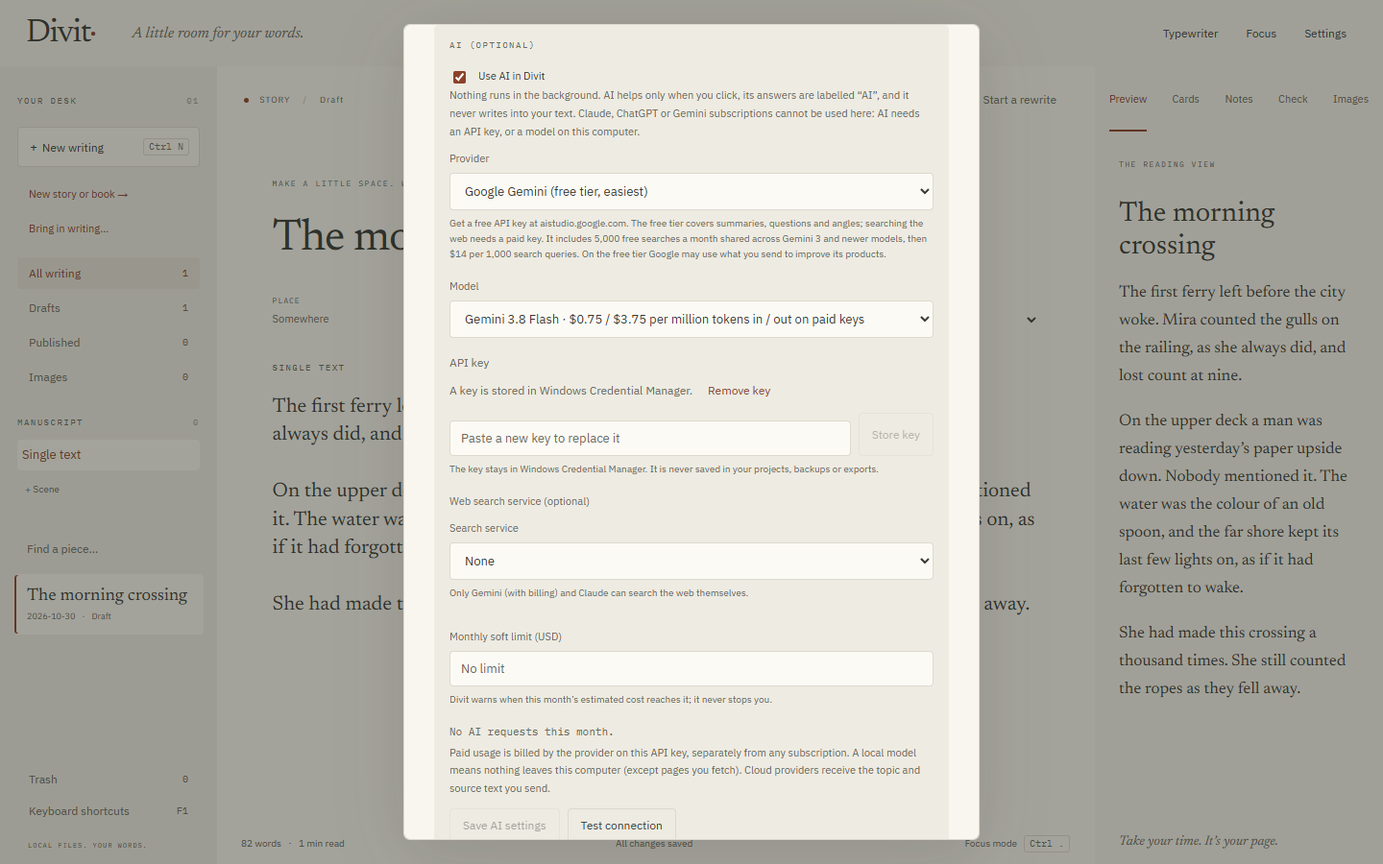
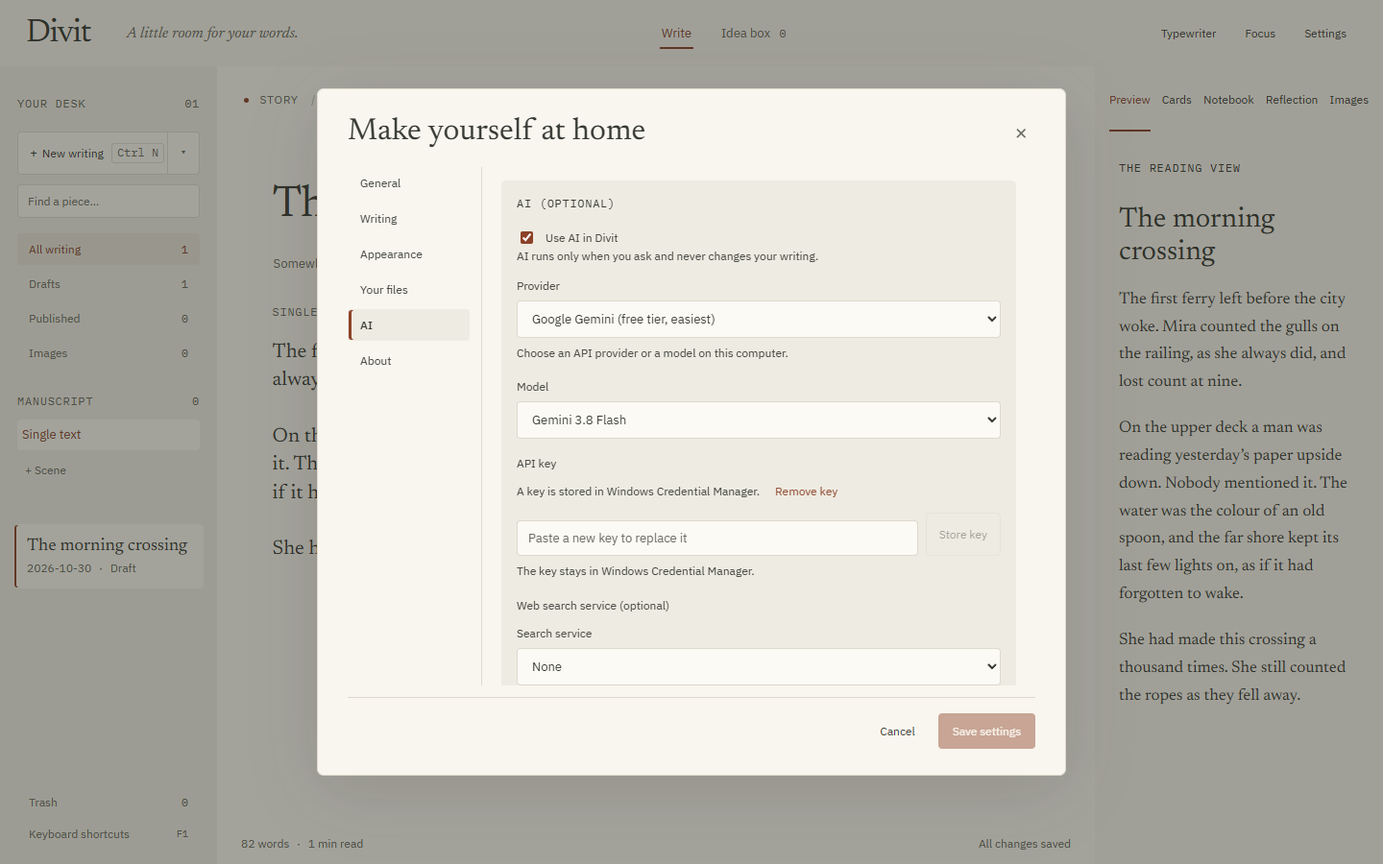
merge follow-up: tabbed Settings, Reflection/Notebook tabs, 12 px shell labels
Requests from ui/panels:
- B1: SettingsForm now hosts the Settings modal. General (language,
  updates), Writing (daily goal, Publish to my site), Appearance,
  Your files (backup, library folder), AI and a new About tab (version,
  privacy, feedback links). Save/Cancel stay in view and Save turns on
  as soon as something changes.
- B4: companion tabs show Reflection (Check) and Notebook (Notes), so
  they no longer echo Review mode and research notes.
- B5: remaining shell labels are 12 px with theme colour tokens; the New
  writing shortcut chip hides below 1150 px so the button stays on one
  line.
Tests that reached settings fields now open the right tab first. After
screenshots for shell and panels are taken from the merged app, and the
README screenshots no longer show the dot after Divit.

diff --git a/src/App.tsx b/src/App.tsx
@@ -11,6 +11,8 @@ import { LibraryLocation } from './settings/LibraryLocation'
 import { AiSettings } from './settings/AiSettings'
 import { checkForUpdate } from './settings/updates'
 import { issueUrl, systemInfo } from './settings/feedback'
+import { SettingsForm } from './settings/SettingsForm'
+import { APP_NAME } from './shared/app'
 import type { AvailableUpdate } from './settings/updates'
 import { useResearch } from './research/useResearch'
 import { ResearchDrawer, newInboxCount } from './research/ResearchDrawer'
@@ -94,6 +96,8 @@ export function App() {
   const [tagText, setTagText] = useState('')
   // Place, date, tags and language fold into one quiet line under the title until the writer opens them.
   const [metaOpen, setMetaOpen] = useState(false)
+  const [appVersion, setAppVersion] = useState('')
+  useEffect(() => { if (dialog === 'settings' && !appVersion) void systemInfo().then(info => setAppVersion(info.version)).catch(() => {}) }, [dialog, appVersion])
   const [exportResult, setExportResult] = useState<ExportResult | null>(null)
   const [editorEpoch, setEditorEpoch] = useState(0)
   const [selectedCardId, setSelectedCardId] = useState<string | null>(null)
@@ -411,7 +415,7 @@ export function App() {
           <div className="dialog-actions"><button className="accent-button" onClick={() => void perform(() => create())} disabled={busy}>{t('Start writing')} <span>＋</span></button><button className="outline-button" onClick={() => setDialog('import')}>{t('Bring in writing…')}</button><button onClick={() => { const next = { ...lib.settings, welcomed: true }; setLib(old => old && { ...old, settings: next }); void api.settings(next).catch(error => setError(message(error))) }}>{t('Got it')}</button></div></section>}
         {(lib.settings.welcomed || lib.projects.length > 0) && <div className="blank-desk"><div className="eyebrow">{t('YOUR WRITING DESK')}</div><h1>{t('There’s a story')}<br/>{t('in there somewhere.')}</h1><p>{t('A thought, a place, a sentence you don’t want to lose.')}<br/>{t('Give it a page.')}</p><button className="accent-button" onClick={() => void perform(() => create())} disabled={busy}>{t('Start writing')} <span>＋</span></button><button className="text-link" onClick={() => setRoom('ideas')}>{t('Or catch an idea first →')}</button></div>}</>}</main>
         {mode === 'review' && draft && <ReviewPanel issues={issues} checking={checking} focus={focusIssue} accept={acceptIssue} add={issue => void addToDictionary(issue.language, issue.original)} ignore={ignoreOnce} ignoreAlways={ignoreAlways}/>}
-        <aside ref={rightPanel} id="writing-companion" className={`side-panel ${compactRight ? 'right-drawer' : ''} ${rightOpen ? 'drawer-open' : ''}`} aria-label={t('Writing companion')} aria-hidden={compactRight && !rightOpen} inert={compactRight && !rightOpen || compactLeft && leftOpen} onKeyDown={e => trapDrawer(e, compactRight && rightOpen)}><button className="drawer-close" onClick={() => closeDrawer('right')}>{t('Close companion')}</button><div className="panel-tabs" role="tablist" aria-label={t('Companion tabs')}>{(draft && draft.type !== 'blog' ? ['Preview', 'Cards', 'Notes', 'Check', 'Images'] as const : ['Preview', 'Check', 'Images'] as const).map(name => <button role="tab" aria-selected={tab === name} className={tab === name ? 'active' : ''} key={name} onClick={() => setTab(name)} id={`tab-${name}`} aria-controls="companion-content">{t(name)}</button>)}</div><div className="panel-content" role="tabpanel" id="companion-content" aria-labelledby={`tab-${tab}`}>{tab === 'Preview' ? <><div className="section-label">{t('THE READING VIEW')}</div>{draft?.title && <h2 className="preview-title">{draft.title}</h2>}{draft?.standfirst && <p className="standfirst">{draft.standfirst}</p>}<Preview text={activeBody} images={lib.images}/></> : tab === 'Notes' && draft ? <Notebook key={draft.id} project={draft} change={edit} disabled={busy}/> : tab === 'Cards' && draft ? <Cards key={draft.id} selectedId={selectedCardId} cards={draft.cards ?? []} change={cards => edit({ cards })} disabled={busy}/> : tab === 'Images' ? <><div className="section-label">{t('A PLACE FOR IMAGES')}</div><p className="quiet">{t('Keep the originals. Prepare a lighter, private copy when sending to your site.')}</p><button className="outline-button" onClick={() => void perform(importImages)} disabled={busy}>{t('＋ Add images')}</button><div className="image-grid compact">{lib.images.map(image => <ImageTile key={image.id} image={image} insert={draft ? () => insert(image) : undefined}/>)}</div></> : <><div className="section-label">{t('A SECOND PAIR OF EYES')}</div><h3>{t('Your voice stays yours.')}</h3><p className="quiet">{t('Review mode (Ctrl 2) underlines spelling, checked on this computer. Sources and AI search live in Research (Ctrl Alt R). Nothing here changes your text.')}</p><div className="note-card">{t('For now, a small pause:')}<br/><br/>{t('Is the opening yours?')}<br/>{t('Is there a detail only you noticed?')}<br/>{t('Does the ending need to explain?')}</div><small className="quiet">{t('No AI request is made.')}</small></>}</div></aside>
+        <aside ref={rightPanel} id="writing-companion" className={`side-panel ${compactRight ? 'right-drawer' : ''} ${rightOpen ? 'drawer-open' : ''}`} aria-label={t('Writing companion')} aria-hidden={compactRight && !rightOpen} inert={compactRight && !rightOpen || compactLeft && leftOpen} onKeyDown={e => trapDrawer(e, compactRight && rightOpen)}><button className="drawer-close" onClick={() => closeDrawer('right')}>{t('Close companion')}</button><div className="panel-tabs" role="tablist" aria-label={t('Companion tabs')}>{(draft && draft.type !== 'blog' ? ['Preview', 'Cards', 'Notes', 'Check', 'Images'] as const : ['Preview', 'Check', 'Images'] as const).map(name => <button role="tab" aria-selected={tab === name} className={tab === name ? 'active' : ''} key={name} onClick={() => setTab(name)} id={`tab-${name}`} aria-controls="companion-content">{name === 'Check' ? t('Reflection') : name === 'Notes' ? t('Notebook') : t(name)}</button>)}</div><div className="panel-content" role="tabpanel" id="companion-content" aria-labelledby={`tab-${tab}`}>{tab === 'Preview' ? <><div className="section-label">{t('THE READING VIEW')}</div>{draft?.title && <h2 className="preview-title">{draft.title}</h2>}{draft?.standfirst && <p className="standfirst">{draft.standfirst}</p>}<Preview text={activeBody} images={lib.images}/></> : tab === 'Notes' && draft ? <Notebook key={draft.id} project={draft} change={edit} disabled={busy}/> : tab === 'Cards' && draft ? <Cards key={draft.id} selectedId={selectedCardId} cards={draft.cards ?? []} change={cards => edit({ cards })} disabled={busy}/> : tab === 'Images' ? <><div className="section-label">{t('A PLACE FOR IMAGES')}</div><p className="quiet">{t('Keep the originals. Prepare a lighter, private copy when sending to your site.')}</p><button className="outline-button" onClick={() => void perform(importImages)} disabled={busy}>{t('＋ Add images')}</button><div className="image-grid compact">{lib.images.map(image => <ImageTile key={image.id} image={image} insert={draft ? () => insert(image) : undefined}/>)}</div></> : <><div className="section-label">{t('A SECOND PAIR OF EYES')}</div><h3>{t('Your voice stays yours.')}</h3><p className="quiet">{t('Review mode (Ctrl 2) underlines spelling, checked on this computer. Sources and AI search live in Research (Ctrl Alt R). Nothing here changes your text.')}</p><div className="note-card">{t('For now, a small pause:')}<br/><br/>{t('Is the opening yours?')}<br/>{t('Is there a detail only you noticed?')}<br/>{t('Does the ending need to explain?')}</div><small className="quiet">{t('No AI request is made.')}</small></>}</div></aside>
       </>}
 
       {room === 'write' && draft && !writing && researchOpen && <ResearchDrawer projectId={draft.id} projectTitle={draft.title} language={draft.language === 'tr' ? 'tr' : 'en'} suggestTopic={() => { const editor = view.current, range = editor?.state.selection.main, picked = range && !range.empty ? editor!.state.sliceDoc(range.from, range.to).trim() : ''; return picked && picked.length <= 200 ? picked : activeSection?.title || draft.title }} research={research.research} reload={research.reload} saveAnnotations={research.saveAnnotations} close={closeResearch} openSettings={openSettings} insert={insertQuote} sectionId={activeSection?.id ?? null} placeName={id => draft.sections?.find(n => n.id === id)?.title ?? (draft.type === 'blog' ? t('the text') : draft.type === 'story' ? t('Single text') : t('Opening'))}/>}
@@ -432,7 +436,14 @@ export function App() {
     {dialog === 'export' && draft && <Modal error={error} title={t('A finished copy')} close={() => { if (!busy) setDialog(null) }}><ExportPanel project={draft} disabled={busy} result={exportResult} quoted={research.research?.sources.filter(s => s.status === 'used').length ?? 0} run={(format, includeSources, engine) => void perform(() => exportCopy(format, includeSources, engine))}/></Modal>}
     {dialog === 'backup-close' && <Modal error={error} title={t('Your writing is saved')} close={() => setDialog(null)}><p className="quiet">{t('The backup could not be completed. Reconnect the backup drive and keep Divit open to try again, or close with your writing saved in Documents.')}</p><div className="dialog-actions"><button className="accent-button" onClick={() => setDialog(null)}>{t('Keep open')}</button><button onClick={() => { void closeWithoutBackup.current?.().catch(error => setError(message(error))) }}>{t('Close without backup')}</button></div></Modal>}
     {dialog === 'help' && <Modal error={error} title={t('A few familiar keys')} close={() => setDialog(null)}><dl className="shortcut-list">{[['Write / Review / Normal', 'Ctrl 1 / 2 / 3'], ['Leave Write mode', 'Esc'], ['New writing', 'Ctrl N'], ['New story or book', 'Ctrl Shift N'], ['Bring in writing', 'Ctrl O'], ['Add chapter / scene', 'Ctrl Alt 1 / 2'], ['Character/place cards', 'Ctrl Alt K'], ['Project notebook', 'Ctrl Alt N'], ['Snapshots', 'Ctrl Alt V'], ['Research', 'Ctrl Alt R'], ['Export', 'Ctrl Shift E'], ['Save now', 'Ctrl S'], ['Catch an idea', 'Ctrl Shift I'], ['Publish to my site (when set up)', 'Ctrl Shift Enter'], ['Typewriter mode', 'Ctrl Alt T'], ['Focus mode', 'Ctrl .'], ['Settings', 'Ctrl ,'],  ['Leave focus / close dialog', 'Esc'], ['Help and shortcuts', 'F1'], ['Undo / redo', 'Ctrl Z / Ctrl Shift Z']].map(([label, key]) => <div key={label}><dt>{t(label)}</dt><dd><kbd>{key}</kbd></dd></div>)}</dl><label className="field help-theme">{t('Theme')}{themePicker('help-theme')}</label><p className="quiet">{t('Use Tab and Shift Tab to reach every control. Text saves automatically while you write.')}</p><div className="help-feedback"><span className="section-label">{t('TELL US')}</span><p className="quiet">{t('Opens a GitHub issue in your browser with the app version and Windows version filled in. Your writing is never included.')}</p><div className="dialog-actions"><button className="outline-button" onClick={() => void systemInfo().then(info => api.openLink(issueUrl('feedback', info))).catch(error => setError(message(error)))}>{t('Send feedback ↗')}</button><button className="outline-button" onClick={() => void systemInfo().then(info => api.openLink(issueUrl('bug', info))).catch(error => setError(message(error)))}>{t('Report a bug ↗')}</button></div></div></Modal>}
-    {dialog === 'settings' && settings && <Modal error={error} title={t('Make yourself at home')} close={() => setDialog(null)}><form onSubmit={e => { e.preventDefault(); void perform(async () => { await api.settings(settings); await refresh(); setDialog(null) }) }}><label className="field">{t('Appearance')}{themePicker('settings-theme')}<small>{t('Applies at once. Match Windows follows the light or dark setting of Windows.')}</small></label><label className="field">{t('Interface language')}<select value={settings.uiLanguage ?? 'system'} onChange={e => setSettings({ ...settings, uiLanguage: e.target.value as Settings['uiLanguage'] })}><option value="system">{t('Same as Windows')}</option><option value="en" lang="en">English</option><option value="tr" lang="tr">Türkçe</option></select><small>{t('Menus and messages only. The language you write in is set per project.')}</small></label><label className="field">{t('Daily writing goal')}<input type="number" min="0" max="100000" placeholder={t('Off')} value={settings.writingGoal || ''} onChange={e => { const value = Math.round(Number(e.target.value)); setSettings({ ...settings, writingGoal: Number.isFinite(value) && value > 0 ? Math.min(100000, value) : undefined }) }}/><small>{t('Optional. Shows today’s words and how many days in a row you have written, at the bottom of the page. Never shown in Write mode.')}</small></label><BackupSettings settings={settings} change={setSettings} info={backupInfo} busy={busy} run={() => void perform(async () => { await api.settings(settings); await flush(); setBackupInfo(await api.backup('manual')); await refresh() })}/><AiSettings/>{desktop && <div className="settings-updates"><label className="acknowledge"><input type="checkbox" checked={settings.checkUpdates !== false} onChange={e => setSettings({ ...settings, checkUpdates: e.target.checked })}/> {t('Check for a new version when Divit starts')}</label><small>{t('Asks GitHub for the latest release; nothing about you or your writing is sent. Divit always asks before installing.')}</small><div><button type="button" className="outline-button" onClick={() => void checkUpdatesNow()}>{t('Check for updates')}</button> <span className="quiet" role="status">{updateNote}</span></div></div>}<LibraryLocation dataRoot={lib.dataRoot} beforeMove={flush} afterMove={async () => { const data = await refresh(); const sorted = [...data.projects].sort((a, b) => b.updatedAt.localeCompare(a.updatedAt)); select(sorted[0] ?? null) }}/><details className="settings-advanced" open={!!settings.siteRepo?.trim()}><summary>{t('Publish to my site (advanced)')}</summary><label className="field">{t('Site repository folder')}<input value={settings.siteRepo ?? ''} placeholder={t('Leave empty if you do not have one')} onChange={e => setSettings({ ...settings, siteRepo: e.target.value })}/><small>{t('For a blog kept in a local Git repository that has a check:content script. Divit writes the post and its images on a new branch and makes a local commit; you push it yourself. Needs Node.js 22. Leave empty to hide Publish to my site.')}</small></label></details><button className="accent-button" disabled={busy}>{t('Save settings')}</button></form></Modal>}
+    {dialog === 'settings' && settings && <Modal error={error} title={t('Make yourself at home')} close={() => setDialog(null)}><SettingsForm dirty={JSON.stringify(settings) !== JSON.stringify(lib.settings)} busy={busy} cancel={() => setDialog(null)} save={() => void perform(async () => { await api.settings(settings); await refresh(); setDialog(null) })} panels={{
+      General: <><label className="field">{t('Interface language')}<select value={settings.uiLanguage ?? 'system'} onChange={e => setSettings({ ...settings, uiLanguage: e.target.value as Settings['uiLanguage'] })}><option value="system">{t('Same as Windows')}</option><option value="en" lang="en">English</option><option value="tr" lang="tr">Türkçe</option></select><small>{t('Menus and messages only. The language you write in is set per project.')}</small></label>{desktop && <div className="settings-updates"><label className="acknowledge"><input type="checkbox" checked={settings.checkUpdates !== false} onChange={e => setSettings({ ...settings, checkUpdates: e.target.checked })}/> {t('Check for a new version when Divit starts')}</label><small>{t('Asks GitHub for the latest release; nothing about you or your writing is sent. Divit always asks before installing.')}</small><div><button type="button" className="outline-button" onClick={() => void checkUpdatesNow()}>{t('Check for updates')}</button> <span className="quiet" role="status">{updateNote}</span></div></div>}</>,
+      Writing: <><label className="field">{t('Daily writing goal')}<input type="number" min="0" max="100000" placeholder={t('Off')} value={settings.writingGoal || ''} onChange={e => { const value = Math.round(Number(e.target.value)); setSettings({ ...settings, writingGoal: Number.isFinite(value) && value > 0 ? Math.min(100000, value) : undefined }) }}/><small>{t('Optional. Shows today’s words and how many days in a row you have written, at the bottom of the page. Never shown in Write mode.')}</small></label><details className="settings-advanced" open={!!settings.siteRepo?.trim()}><summary>{t('Publish to my site (advanced)')}</summary><label className="field">{t('Site repository folder')}<input value={settings.siteRepo ?? ''} placeholder={t('Leave empty if you do not have one')} onChange={e => setSettings({ ...settings, siteRepo: e.target.value })}/><small>{t('For a blog kept in a local Git repository that has a check:content script. Divit writes the post and its images on a new branch and makes a local commit; you push it yourself. Needs Node.js 22. Leave empty to hide Publish to my site.')}</small></label></details></>,
+      Appearance: <><label className="field">{t('Appearance')}{themePicker('settings-theme')}<small>{t('Applies at once. Match Windows follows the light or dark setting of Windows.')}</small></label></>,
+      'Your files': <><BackupSettings settings={settings} change={setSettings} info={backupInfo} busy={busy} run={() => void perform(async () => { await api.settings(settings); await flush(); setBackupInfo(await api.backup('manual')); await refresh() })}/><LibraryLocation dataRoot={lib.dataRoot} beforeMove={flush} afterMove={async () => { const data = await refresh(); const sorted = [...data.projects].sort((a, b) => b.updatedAt.localeCompare(a.updatedAt)); select(sorted[0] ?? null) }}/></>,
+      AI: <AiSettings/>,
+      About: <div className="settings-about"><span className="section-label">{APP_NAME}</span><p>{t('Version {version}', { version: appVersion || '…' })}</p><p className="quiet">{t('Your writing stays on this computer. Nothing is sent anywhere unless you turn on AI or save a web page as a source. Divit only asks GitHub whether a new version exists, and you can turn that off in Settings.')}</p><div className="dialog-actions"><button type="button" className="outline-button" onClick={() => void systemInfo().then(info => api.openLink(issueUrl('feedback', info))).catch(error => setError(message(error)))}>{t('Send feedback ↗')}</button><button type="button" className="outline-button" onClick={() => void systemInfo().then(info => api.openLink(issueUrl('bug', info))).catch(error => setError(message(error)))}>{t('Report a bug ↗')}</button></div></div>,
+    }}/></Modal>}
     {dialog === 'publish' && draft && <Modal error={error} title={t('Send these words out')} close={() => { if (!busy) setDialog(null) }}><p className="quiet">{t('Prepare a local site branch for')} <strong>{draft.title || t('Untitled')}</strong>.</p><label className="field">{t('Address')}<input value={draft.slug} disabled={busy} onChange={e => edit({ slug: e.target.value })}/><small>/blog/{draft.slug || 'your-address'}</small></label><label className="field">{t('Excerpt')}<input placeholder={t('One line for the journal list')} value={draft.excerpt} disabled={busy} onChange={e => edit({ excerpt: e.target.value })}/></label><label className="field">{t('Standfirst')}<textarea placeholder={t('The opening lines, set a little larger')} value={draft.standfirst} disabled={busy} onChange={e => edit({ standfirst: e.target.value })}/></label><ul className="checklist"><li>{draft.title.trim() ? '✓' : '○'} A title of your own</li><li>{draft.body.trim() ? '✓' : '○'} Text ready to read</li><li>{draft.date ? '✓' : '○'} A date for the journal</li><li>✓ Originals kept; site images resized and privacy checked</li><li>{draft.ideaId ? '✓ Linked idea moves to Published after commit' : '— No linked idea card'}</li></ul>{!desktop && <p className="inline-notice">{t('Site transfer needs the desktop app.')}</p>}{plan && <div className="publish-plan"><div className="section-label">{t('FILES TO WRITE')}</div>{plan.files.map(file => <code key={file}>{file}</code>)}<p>{t('Branch')} <code>{plan.branch}</code></p><p className="quiet">{t('Run the content check, then commit these files locally.')}</p><label className="acknowledge"><input type="checkbox" checked={acknowledged} onChange={e => setAcknowledged(e.target.checked)}/> {t('I’ve reviewed the files and branch.')}</label></div>}<div className="dialog-actions"><button className="outline-button" disabled={busy || !desktop || !canPublish} onClick={() => void perform(async () => { await flush(); setPlan(await api.plan(session.current!.project!)); setAcknowledged(false) })}>{busy ? t('Working…') : t('Check repository')}</button><button className="accent-button" disabled={busy || !plan || !acknowledged} onClick={() => void perform(async () => { await flush(); const result = await api.publish(session.current!.project!); const data = await refresh(); select(data.projects.find(p => p.id === draft.id) ?? null); setDialog(null); setStatus(`Committed on ${result.branch} · ${result.commit.slice(0, 7)}`) })}>{t('Create local commit ↗')}</button></div><small className="quiet">{t('Push is a separate step that requires your approval.')}</small></Modal>}
   </div>
 }

diff --git a/tests/ui/projects.spec.ts b/tests/ui/projects.spec.ts
@@ -1,5 +1,5 @@
 import { test, expect } from '@playwright/test'
-import { more, startMenu } from './shell-helpers'
+import { more, settingsTab, startMenu } from './shell-helpers'
 import { readFile } from 'node:fs/promises'
 
 test.beforeEach(async ({ page }) => {
@@ -130,19 +130,19 @@ test('timeline and daily writing goals persist without counting metadata as writ
   await startMenu(page, 'New story or book')
   await page.getByLabel('Project title').fill('The Last Ferry'); await page.getByRole('button', { name: 'Create project', exact: true }).click()
   await page.getByRole('textbox', { name: 'Markdown text' }).fill('One quiet morning.')
-  await page.getByRole('tab', { name: 'Notes', exact: true }).click(); await page.getByRole('button', { name: 'Writing log', exact: true }).click()
+  await page.getByRole('tab', { name: 'Notebook', exact: true }).click(); await page.getByRole('button', { name: 'Writing log', exact: true }).click()
   await expect(page.locator('.daily-progress')).toContainText('3 words today in this project')
   await expect(page.locator('.daily-goal-line')).toHaveCount(0) // the goal is off until the writer sets one
   await page.getByRole('button', { name: 'Timeline', exact: true }).click(); await page.getByRole('button', { name: '+ Event', exact: true }).click()
   await page.getByLabel('Note title').fill('Departure'); await page.getByLabel('When', { exact: true }).fill('Day 1, 06:10')
   await page.getByLabel('Note text').fill('Derya takes the first ferry.'); await page.getByRole('button', { name: 'Save note', exact: true }).click()
   await page.keyboard.press('Control+s')
-  await page.getByRole('button', { name: 'Open settings' }).click(); await page.getByRole('dialog').getByLabel('Daily writing goal').fill('10'); await page.getByRole('button', { name: 'Save settings' }).click()
+  await page.getByRole('button', { name: 'Open settings' }).click(); await settingsTab(page, 'Writing'); await page.getByRole('dialog').getByLabel('Daily writing goal').fill('10'); await page.getByRole('button', { name: 'Save settings' }).click()
   await expect(page.locator('.daily-goal-line')).toHaveAttribute('value', '3'); await expect(page.locator('.daily-goal-line')).toHaveAttribute('max', '10')
   await expect(page.locator('.goal-status')).toHaveText('3 / 10 today')
   await page.getByRole('combobox', { name: 'Writing mode' }).selectOption('write'); await expect(page.locator('.goal-status')).toBeHidden()
   await page.keyboard.press('Escape')
-  await page.reload(); await page.getByRole('tab', { name: 'Notes', exact: true }).click()
+  await page.reload(); await page.getByRole('tab', { name: 'Notebook', exact: true }).click()
   await page.getByRole('button', { name: 'Timeline', exact: true }).click(); await expect(page.locator('.project-notes')).toContainText('Day 1, 06:10')
 })
 
@@ -153,7 +153,7 @@ test('fiction shortcuts create projects, chapters and scenes and open companion 
   await page.keyboard.press('Control+Alt+1'); await expect(page.getByLabel('Section title')).toHaveValue('Chapter 1')
   await page.keyboard.press('Control+Alt+2'); await expect(page.getByLabel('Section title')).toHaveValue('Scene 1')
   await page.keyboard.press('Control+Alt+k'); await expect(page.getByRole('tab', { name: 'Cards', exact: true })).toHaveAttribute('aria-selected', 'true')
-  await page.keyboard.press('Control+Alt+n'); await expect(page.getByRole('tab', { name: 'Notes', exact: true })).toHaveAttribute('aria-selected', 'true')
+  await page.keyboard.press('Control+Alt+n'); await expect(page.getByRole('tab', { name: 'Notebook', exact: true })).toHaveAttribute('aria-selected', 'true')
   await page.keyboard.press('Control+Alt+v'); await expect(page.getByRole('dialog')).toContainText('Keep a version before rewriting')
   await page.keyboard.press('Escape'); await page.keyboard.press('Control+Shift+e')
   await expect(page.getByRole('dialog')).toContainText('A finished copy')

diff --git a/tests/ui/ai-settings.spec.ts b/tests/ui/ai-settings.spec.ts
@@ -1,10 +1,11 @@
 import { test, expect } from '@playwright/test'
 import { desktopBridge, nativeCalls } from './desktop-bridge'
+import { settingsTab } from './shell-helpers'
 
 test('model names stay short and Details follows the published January price change', async ({ page }) => {
   await page.clock.setFixedTime(new Date('2027-01-15T12:00:00Z'))
   await desktopBridge(page, { config: { enabled: true } })
-  await page.goto('/'); await page.getByRole('button', { name: 'Open settings' }).click()
+  await page.goto('/'); await page.getByRole('button', { name: 'Open settings' }).click(); await settingsTab(page, 'AI')
   const model = page.getByRole('dialog').getByLabel('Model', { exact: true })
   await expect(model.locator('option').first()).toHaveText('Gemini 3.8 Flash')
   const details = page.getByRole('dialog').locator('.ai-details')
@@ -14,7 +15,7 @@ test('model names stay short and Details follows the published January price cha
 })
 
 test('in the browser preview, AI settings only explain that AI runs from the desktop app', async ({ page }) => {
-  await page.goto('/'); await page.getByRole('button', { name: 'Open settings' }).click()
+  await page.goto('/'); await page.getByRole('button', { name: 'Open settings' }).click(); await settingsTab(page, 'AI')
   const section = page.getByRole('dialog').locator('.ai-settings')
   const apiKey = section.locator('.ai-key').getByLabel('API key', { exact: true })
   await expect(section).toContainText('AI features run from the desktop app')
@@ -24,7 +25,7 @@ test('in the browser preview, AI settings only explain that AI runs from the des
 test('Gemini comes first, then local models; keys go only to Credential Manager; Claude fallbacks are an opt-in', async ({ page }) => {
   const month = new Date(Date.now() - new Date().getTimezoneOffset() * 60000).toISOString().slice(0, 7)
   await desktopBridge(page, { config: { usage: { month, calls: 3, inputTokens: 12000, outputTokens: 800, webSearches: 2, costUsd: 0.064, unpricedCalls: 0 } }, testMessage: 'Connected. Gemini 3.8 Flash is available.' })
-  await page.goto('/'); await page.getByRole('button', { name: 'Open settings' }).click()
+  await page.goto('/'); await page.getByRole('button', { name: 'Open settings' }).click(); await settingsTab(page, 'AI')
   const section = page.getByRole('dialog').locator('.ai-settings')
   const apiKey = section.locator('.ai-key').getByLabel('API key', { exact: true })
   await expect(section.getByLabel('Use AI in Divit')).not.toBeChecked()

diff --git a/src/polish/shell.css b/src/polish/shell.css
@@ -35,6 +35,8 @@
 .library>.search-label{display:block;margin:0 0 16px}
 .library>.search-label input{width:100%;background:var(--paper);border:1px solid var(--line);min-height:32px}
 
+.settings-about p{font-size:13px;line-height:1.6;margin:8px 0}
+
 /* The metadata line under the title: one quiet button that opens the fields. */
 .metadata-summary{display:block;min-height:32px;margin:-14px 0 8px -8px;padding:6px 8px;font-size:13px;color:var(--muted);text-align:left;max-width:100%;overflow:hidden;text-overflow:ellipsis;white-space:nowrap}
 .metadata-summary[aria-expanded=true]{color:var(--text)}
@@ -45,3 +47,16 @@
 .topbar nav button.active{color:var(--accent)}
 .editor-footer{justify-content:flex-start;gap:18px}
 .editor-footer [role=status]{margin-left:auto}
+
+/* Small shell labels: at least 12 px, in the theme's muted or text colour (AA in every theme, see
+   tests/themes.test.mjs). Mono caps keep a lighter letter-spacing at this size. */
+.section-label,.eyebrow,.panel-content>.section-label,.room-number,.column-heading small,.idea-card>small,.document-toolbar>div:first-child{font-size:12px;letter-spacing:.06em}
+.section-label span{opacity:1}
+.nav-count,.preview-notice,.preview-notice span,.new-button kbd,.library-filters button,.library-filters span,.library-bottom button,.library-bottom span,.document small,.new-project-link,
+.document-toolbar,.document-toolbar button,.editor-footer,.editor-footer button,.editor-footer kbd,.editor-footer .today-count,.metadata label,.metadata input,
+.panel-tabs button,.tag-filters button,.tag-filter-input input,.column-heading>span:last-child,.idea-tags span,.idea-card select,.idea-tag-edit,.idea-tag-edit input,.card-actions button,
+.capture button,.image-tile>span,.image-actions button,.outline-node,.outline-node small,.outline-tools button,.outline-trash,.outline-trash button,.outline-add button,.outline-word-count{font-size:12px}
+.document small,.metadata label,.column-heading small,.idea-card>small{color:var(--muted)}
+.library-filters span,.library-bottom span{font-family:'IBM Plex Mono',monospace}
+.new-split .new-button{white-space:nowrap;gap:8px}
+@media(max-width:1150px){.new-split .new-button kbd{display:none}}

diff --git a/tests/ui/themes.spec.ts b/tests/ui/themes.spec.ts
@@ -1,12 +1,13 @@
 import { test, expect } from '@playwright/test'
+import { settingsTab } from './shell-helpers'
 
 const paper = (page: import('@playwright/test').Page) => page.evaluate(() => getComputedStyle(document.documentElement).getPropertyValue('--paper').trim())
 
 test('themes apply at once from Settings and the shortcut sheet, and are remembered', async ({ page }) => {
   await page.goto('/'); await page.evaluate(() => localStorage.clear()); await page.reload()
   await expect(page.locator('html')).toHaveAttribute('data-theme', 'light')
-  await page.getByRole('button', { name: 'Open settings' }).click()
-  const appearance = page.getByRole('dialog').getByLabel(/^Appearance/)
+  await page.getByRole('button', { name: 'Open settings' }).click(); await settingsTab(page, 'Appearance')
+  const appearance = page.getByRole('dialog').getByRole('combobox', { name: /^Appearance/ })
   await expect(appearance.locator('option')).toHaveText(['Match Windows', 'Warm paper', 'Sage paper', 'Dusty blue ink', 'After hours', 'Terracotta evening', 'Plum night'])
   await appearance.selectOption('plum')
   await expect(page.locator('html')).toHaveAttribute('data-theme', 'plum'); await expect(page.locator('html')).toHaveAttribute('data-tone', 'dark')
@@ -23,8 +24,8 @@ test('themes apply at once from Settings and the shortcut sheet, and are remembe
 test('Match Windows follows the system light or dark setting while the app is open', async ({ page }) => {
   await page.emulateMedia({ colorScheme: 'light' })
   await page.goto('/'); await page.evaluate(() => localStorage.clear()); await page.reload()
-  await page.getByRole('button', { name: 'Open settings' }).click()
-  await page.getByRole('dialog').getByLabel(/^Appearance/).selectOption('system')
+  await page.getByRole('button', { name: 'Open settings' }).click(); await settingsTab(page, 'Appearance')
+  await page.getByRole('dialog').getByRole('combobox', { name: /^Appearance/ }).selectOption('system')
   await expect(page.locator('html')).toHaveAttribute('data-theme', 'light')
   await page.emulateMedia({ colorScheme: 'dark' })
   await expect(page.locator('html')).toHaveAttribute('data-theme', 'dark')

diff --git a/tests/ui/shell.spec.ts b/tests/ui/shell.spec.ts
@@ -87,3 +87,24 @@ test('the status bar shows words, reading time and save state, without the Focus
   await expect(focus).toHaveAttribute('aria-pressed', 'false'); await focus.click()
   await expect(page.locator('.top-actions').getByRole('button', { name: 'Leave focus' })).toHaveAttribute('aria-pressed', 'true')
 })
+
+test('Settings opens on side tabs with Save and Cancel always in view; Save turns on with a change', async ({ page }) => {
+  await page.setViewportSize({ width: 960, height: 700 })
+  await page.goto('/'); await page.evaluate(() => localStorage.clear()); await page.reload()
+  await page.getByRole('button', { name: 'Open settings' }).click()
+  const dialog = page.getByRole('dialog')
+  await expect(dialog.getByRole('tab')).toHaveText(['General', 'Writing', 'Appearance', 'Your files', 'AI', 'About'])
+  const save = dialog.getByRole('button', { name: 'Save settings' })
+  await expect(save).toBeInViewport(); await expect(save).toBeDisabled(); await expect(dialog.getByRole('button', { name: 'Cancel' })).toBeInViewport()
+  await dialog.getByRole('tab', { name: 'Writing' }).click(); await dialog.getByLabel('Daily writing goal').fill('300')
+  await expect(save).toBeEnabled(); await expect(save).toBeInViewport()
+  await dialog.getByRole('tab', { name: 'About' }).click(); await expect(dialog.getByRole('tabpanel', { name: 'About' })).toContainText('Version')
+  await save.click(); await expect(dialog).toHaveCount(0)
+  expect(await page.evaluate(() => JSON.parse(localStorage.getItem('yazi-browser-preview-v1')!).settings.writingGoal)).toBe(300)
+})
+
+test('companion tabs say Reflection and Notebook, so they do not echo Review and research notes', async ({ page }) => {
+  await book(page)
+  await expect(page.locator('#writing-companion [role=tab]')).toHaveText(['Preview', 'Cards', 'Notebook', 'Reflection', 'Images'])
+  await page.keyboard.press('Control+Alt+n'); await expect(page.getByRole('tab', { name: 'Notebook', exact: true })).toHaveAttribute('aria-selected', 'true')
+})

diff --git a/tests/ui/library-location.spec.ts b/tests/ui/library-location.spec.ts
@@ -1,4 +1,5 @@
 import { test, expect } from '@playwright/test'
+import { settingsTab } from './shell-helpers'
 import { desktopBridge, nativeCalls } from './desktop-bridge'
 
 test('moving the library warns about two computers, copies only after confirming and keeps the old folder', async ({ page }) => {
@@ -7,7 +8,7 @@ test('moving the library warns about two computers, copies only after confirming
     library_location: { root: 'D:\OneDrive\Divit', existing: false, projects: 0, changedAt: null },
     library_move: { dataRoot: 'D:\OneDrive\Divit', previous: 'C:\Users\writer\Documents\Divit', copied: 12 },
   } })
-  await page.goto('/'); await page.getByRole('button', { name: 'Open settings' }).click()
+  await page.goto('/'); await page.getByRole('button', { name: 'Open settings' }).click(); await settingsTab(page, 'Your files')
   const dialog = page.getByRole('dialog')
   await expect(dialog).toContainText('C:/Users/writer/Documents/Divit')
   await dialog.getByRole('button', { name: 'Move library…' }).click()
@@ -22,7 +23,7 @@ test('moving the library warns about two computers, copies only after confirming
 
 test('a folder that already holds a library is offered for use, not overwritten', async ({ page }) => {
   await desktopBridge(page, { config: {}, extra: { 'plugin:dialog|open': 'D:\Dropbox', library_location: { root: 'D:\Dropbox\Divit', existing: true, projects: 4, changedAt: Date.UTC(2026, 9, 29, 9, 30) } } })
-  await page.goto('/'); await page.getByRole('button', { name: 'Open settings' }).click()
+  await page.goto('/'); await page.getByRole('button', { name: 'Open settings' }).click(); await settingsTab(page, 'Your files')
   const dialog = page.getByRole('dialog')
   await dialog.getByRole('button', { name: 'Move library…' }).click()
   const plan = dialog.getByRole('group', { name: 'Move library' })

diff --git a/tests/ui/ai-research-isolation.spec.ts b/tests/ui/ai-research-isolation.spec.ts
@@ -1,4 +1,5 @@
 import { test, expect } from '@playwright/test'
+import { settingsTab } from './shell-helpers'
 import { randomUUID } from 'node:crypto'
 import { desktopBridge, nativeCalls } from './desktop-bridge'
 import { newProject } from '../../src/shared/types'
@@ -33,7 +34,7 @@ test('reopening the search form uses AI settings saved while the research drawer
   await drawer.getByRole('button', { name: 'Search about this topic' }).click()
   await expect(drawer.getByRole('button', { name: 'Search with AI', exact: true })).toHaveCount(0)
   await drawer.getByRole('button', { name: 'Cancel', exact: true }).click()
-  await page.getByRole('button', { name: 'Open settings' }).click()
+  await page.getByRole('button', { name: 'Open settings' }).click(); await settingsTab(page, 'AI')
   const settings = page.getByRole('dialog').locator('.ai-settings')
   await settings.getByLabel('Use AI in Divit').check()
   await settings.getByRole('button', { name: 'Save AI settings', exact: true }).click()
@@ -51,7 +52,7 @@ test('turning AI off while a search form is open prevents the pending search', a
   const drawer = page.getByRole('complementary', { name: 'Research' })
   await drawer.getByRole('button', { name: 'Search about this topic' }).click()
   await expect(drawer.getByRole('button', { name: 'Search with AI', exact: true })).toBeVisible()
-  await page.getByRole('button', { name: 'Open settings' }).click()
+  await page.getByRole('button', { name: 'Open settings' }).click(); await settingsTab(page, 'AI')
   const settings = page.getByRole('dialog').locator('.ai-settings')
   await settings.getByLabel('Use AI in Divit').uncheck()
   await settings.getByRole('button', { name: 'Save AI settings', exact: true }).click()

diff --git a/tests/ui/details.spec.ts b/tests/ui/details.spec.ts
@@ -1,11 +1,11 @@
 import { test, expect } from '@playwright/test'
-import { details, startMenu } from './shell-helpers'
+import { details, settingsTab, startMenu } from './shell-helpers'
 test('ISO date, a thin accessible goal and key chips remain consistent',async({page})=>{
   await page.goto('/');await page.evaluate(()=>localStorage.clear());await page.reload()
   await startMenu(page, 'New story or book');await page.getByRole('button',{name:'Create project',exact:true}).click()
   await details(page); const date=page.getByLabel('DATE',{exact:true});await expect(date).toHaveAttribute('type','text')
   // The daily goal is off by default; turn it on to see the thin progress line.
-  await page.getByRole('button',{name:'Open settings'}).click();await page.getByRole('dialog').getByLabel('Daily writing goal').fill('500');await page.getByRole('button',{name:'Save settings'}).click()
+  await page.getByRole('button',{name:'Open settings'}).click(); await settingsTab(page, 'Writing');await page.getByRole('dialog').getByLabel('Daily writing goal').fill('500');await page.getByRole('button',{name:'Save settings'}).click()
   await date.fill('2026-11-03');await page.getByRole('textbox',{name:'Markdown text'}).fill('One quiet morning.')
   await expect(page.getByRole('progressbar',{name:'Words written today',exact:true})).toHaveAttribute('value','3')
   await expect(page.locator('.new-button kbd')).toBeVisible(); await expect(page.locator('.editor-footer kbd')).toHaveCount(0) // the Focus hint lives in the shortcut sheet

diff --git a/src/i18n/tr.ts b/src/i18n/tr.ts
@@ -97,6 +97,7 @@ export const tr: Record<string, string> = {
   'Write shows only your text. Review underlines spelling, checked on this computer. Normal brings back the panels. Switch with Ctrl 1, 2 and 3.': 'Yaz yalnızca metninizi gösterir. İncele, bu bilgisayarda denetlenen yazım hatalarının altını çizer. Normal panelleri geri getirir. Ctrl 1, 2 ve 3 ile geçiş yapın.',
   'Your writing stays on this computer. Nothing is sent anywhere unless you turn on AI or save a web page as a source. Divit only asks GitHub whether a new version exists, and you can turn that off in Settings.': 'Yazınız bu bilgisayarda kalır. Yapay zekâyı açmadıkça ya da bir web sayfasını kaynak olarak kaydetmedikçe hiçbir şey hiçbir yere gönderilmez. Divit yalnızca GitHub’a yeni sürüm olup olmadığını sorar; bunu Ayarlar’dan kapatabilirsiniz.',
   'Place, date, tags and language': 'Yer, tarih, etiketler ve dil', 'No date': 'Tarih yok', 'Language: auto': 'Dil: otomatik', '+ tags': '+ etiket',
+  'Version {version}': 'Sürüm {version}',
   'More ways to start': 'Başlamanın başka yolları',
   'More actions': 'Diğer işlemler', 'Export (Ctrl+Shift+E)': 'Dışa aktar (Ctrl+Shift+E)',
   'Appearance': 'Görünüm', 'Theme': 'Tema', 'Match Windows': 'Windows ile aynı', 'Sage paper': 'Adaçayı kâğıdı', 'Dusty blue ink': 'Soluk mavi mürekkep', 'Terracotta evening': 'Kiremit akşamı', 'Plum night': 'Mürdüm gecesi',

diff --git a/tests/ui/writing.spec.ts b/tests/ui/writing.spec.ts
@@ -1,5 +1,5 @@
 import { test, expect } from '@playwright/test'
-import { more } from './shell-helpers'
+import { more, settingsTab } from './shell-helpers'
 
 test.beforeEach(async ({ page }) => {
   await page.goto('/')
@@ -45,9 +45,11 @@ test('focus shortcut and dark theme persist', async ({ page }) => {
   await expect(page.getByRole('complementary', { name: 'Writing library' })).toBeHidden()
   await page.keyboard.press('Escape')
   await expect(page.getByRole('complementary', { name: 'Writing library' })).toBeVisible()
-  await page.getByRole('button', { name: 'Open settings' }).click()
-  await page.getByLabel('Appearance').selectOption('dark')
-  await page.getByRole('button', { name: 'Save settings' }).click()
+  await page.getByRole('button', { name: 'Open settings' }).click(); await settingsTab(page, 'Appearance')
+  await page.getByRole('combobox', { name: /^Appearance/ }).selectOption('dark')
+  // A theme is saved as soon as it is chosen, so Save stays off and Cancel just closes.
+  await expect(page.getByRole('button', { name: 'Save settings' })).toBeDisabled()
+  await page.getByRole('dialog').getByRole('button', { name: 'Cancel' }).click()
   await expect(page.locator('html')).toHaveAttribute('data-theme', 'dark')
   await page.reload()
   await expect(page.locator('html')).toHaveAttribute('data-theme', 'dark')

diff --git a/tests/ui/search-service.spec.ts b/tests/ui/search-service.spec.ts
@@ -3,6 +3,7 @@ import type { Page } from '@playwright/test'
 import { randomUUID } from 'node:crypto'
 import { newProject } from '../../src/shared/types'
 import { desktopBridge, nativeCalls } from './desktop-bridge'
+import { settingsTab } from './shell-helpers'
 
 const usage = { inputTokens: 900, outputTokens: 120, webSearches: 0, costUsd: null, monthCostUsd: 0, overLimit: false, model: 'llama3.2' }
 const candidate = { title: 'Winter timetable', url: 'https://example.com/tarife', site: 'example.com', published: '2026-10-20', type: 'news', summary: 'The first ferry leaves at 06:10.', excerpt: '' }
@@ -19,7 +20,7 @@ async function search(page: Page) {
 
 test('Settings stores a search service key only in Credential Manager and saves the choice', async ({ page }) => {
   await desktopBridge(page, { config: local })
-  await page.goto('/'); await page.getByRole('button', { name: 'Open settings' }).click()
+  await page.goto('/'); await page.getByRole('button', { name: 'Open settings' }).click(); await settingsTab(page, 'AI')
   const section = page.getByRole('dialog').locator('.ai-settings')
   const service = section.getByLabel('Search service', { exact: true })
   await expect(service.locator('option')).toHaveText(['None', 'Tavily (free monthly allowance)', 'Brave Search', 'SearXNG (your own server)'])
